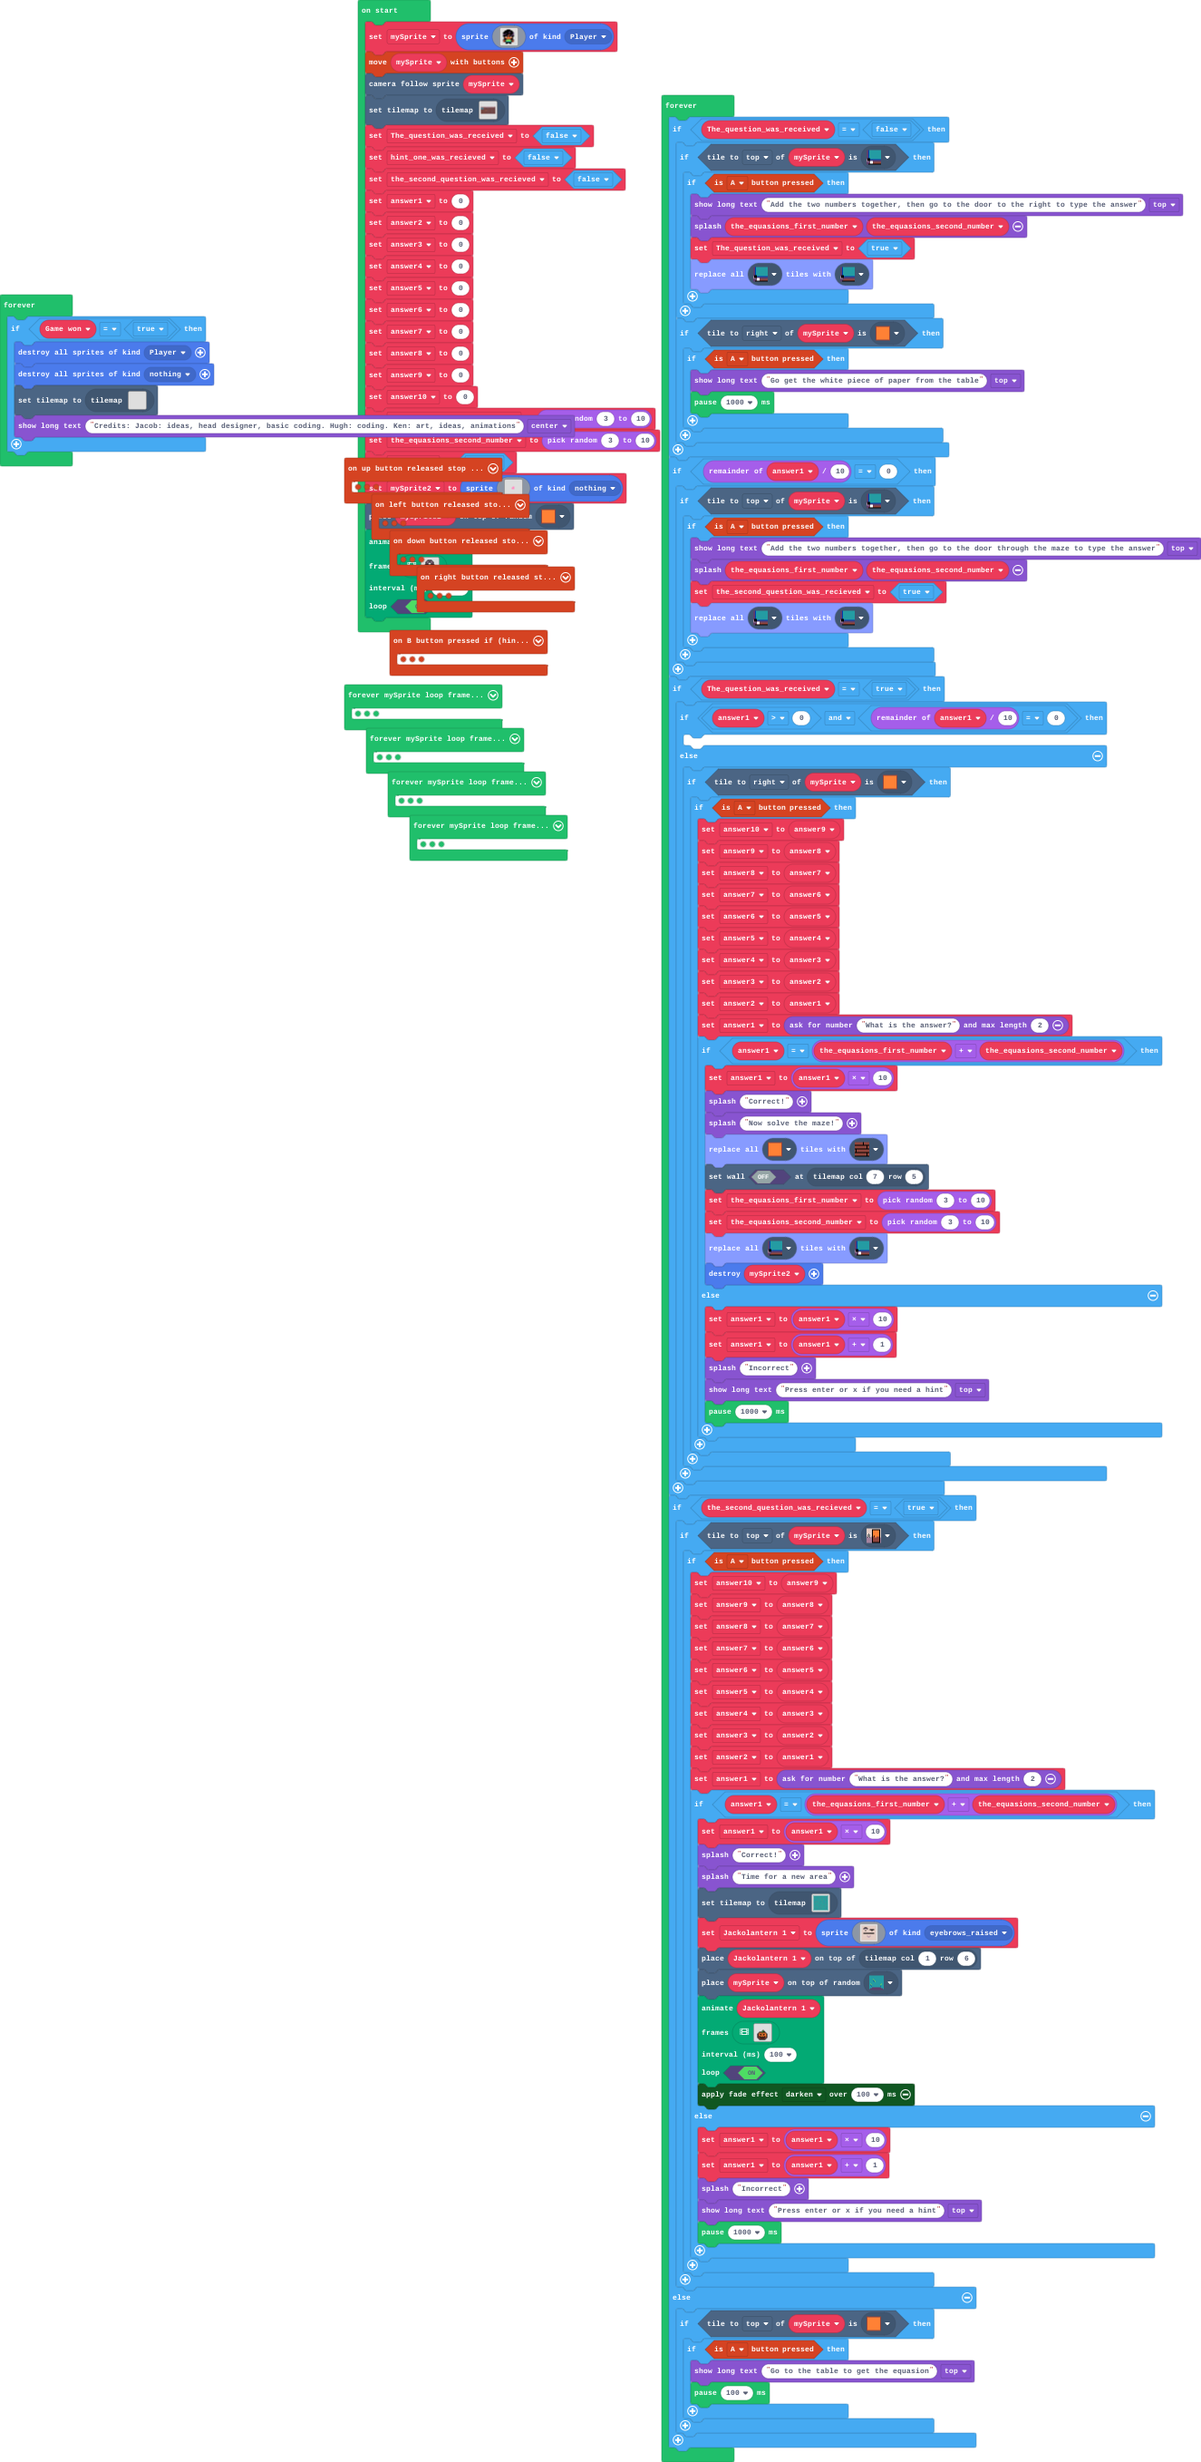
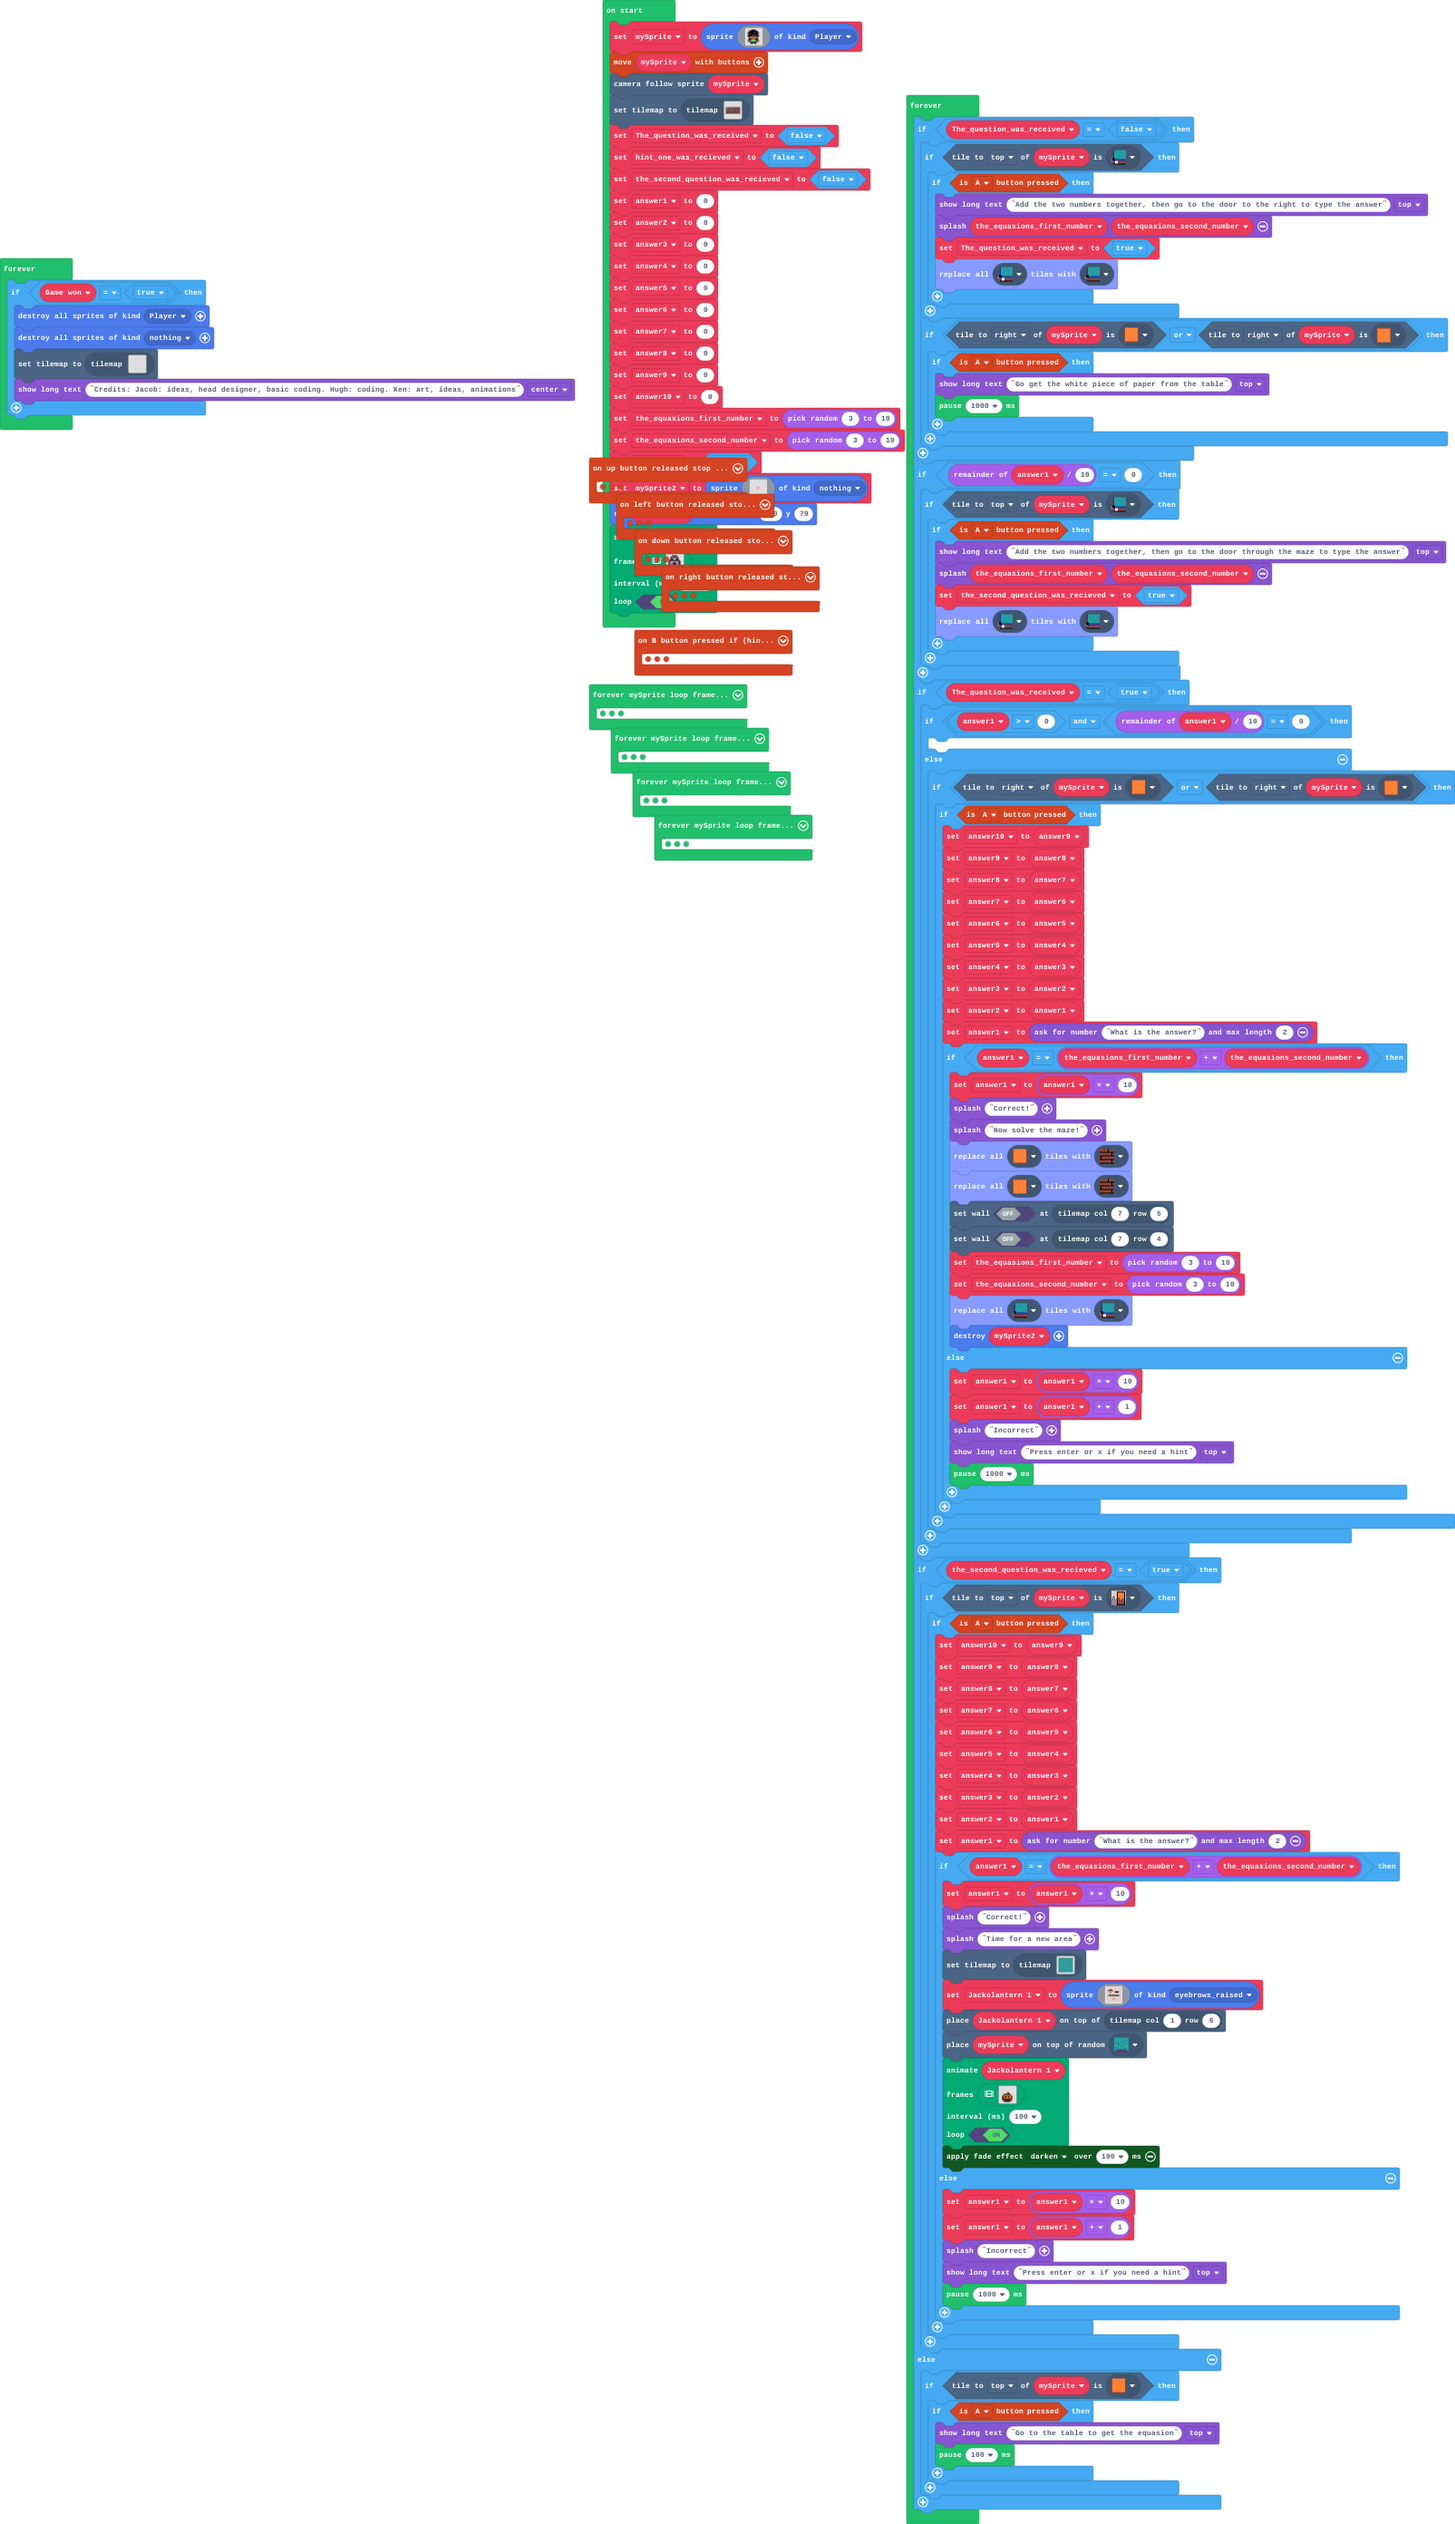
Update main.blocks, main.ts, tilemap.g.jres, tilemap.g.ts

Changed region(s): [[0.0, 0.0, 1.0, 1.0]]

diff --git a/tilemap.g.ts b/tilemap.g.ts
@@ -23,8 +23,6 @@ namespace myTiles {
     //% fixedInstance jres blockIdentity=images._tile
     export const tile9 = image.ofBuffer(hex``);
     //% fixedInstance jres blockIdentity=images._tile
-    export const tile10 = image.ofBuffer(hex``);
-    //% fixedInstance jres blockIdentity=images._tile
     export const tile15 = image.ofBuffer(hex``);
     //% fixedInstance jres blockIdentity=images._tile
     export const tile2 = image.ofBuffer(hex``);
@@ -72,6 +70,10 @@ namespace myTiles {
     export const tile34 = image.ofBuffer(hex``);
     //% fixedInstance jres blockIdentity=images._tile
     export const tile35 = image.ofBuffer(hex``);
+    //% fixedInstance jres blockIdentity=images._tile
+    export const tile36 = image.ofBuffer(hex``);
+    //% fixedInstance jres blockIdentity=images._tile
+    export const tile10 = image.ofBuffer(hex``);
 
     helpers._registerFactory("tilemap", function(name: string) {
         switch(helpers.stringTrim(name)) {
@@ -113,19 +115,6 @@ namespace myTiles {
 . . . . . . . . . . . . . . . . 
 . . . . . . . . . . . . . . . . 
 `, [myTiles.transparency16], TileScale.Sixteen);
-            case "level1":
[1 lines of base64/hex data omitted]
-2 2 2 2 2 2 2 2 2 2 2 2 2 2 2 2 2 2 2 2 
-. . . . . . . 2 2 2 2 2 . . . . . . . . 
-2 2 2 2 . . . 2 . 2 . 2 . 2 2 . 2 2 2 2 
-2 2 2 2 . . . 2 . 2 . 2 . 2 . . 2 . . . 
-. . . . . . . 2 . . . 2 . . 2 . . 2 2 . 
-. . . . . . . 2 . 2 2 2 2 . 2 2 . 2 2 . 
-. . . . . . . 2 . 2 . . . . . 2 . . 2 . 
-. . . . . . . 2 . 2 . 2 . 2 2 2 2 . 2 . 
-. . . . . . . 2 . . . 2 . . . . 2 . 2 . 
-. . . . . . . 2 2 2 2 2 2 2 2 2 2 . . . 
-`, [myTiles.transparency16,myTiles.tile1,myTiles.tile2,myTiles.tile3,myTiles.tile4,myTiles.tile5,myTiles.tile6,myTiles.tile9,myTiles.tile10,myTiles.tile12,myTiles.tile13,myTiles.tile14,myTiles.tile15,myTiles.tile16,myTiles.tile17,myTiles.tile7,myTiles.tile8,myTiles.tile18,myTiles.tile19,myTiles.tile20,myTiles.tile21,myTiles.tile22,myTiles.tile23,myTiles.tile24,myTiles.tile25,myTiles.tile26,myTiles.tile27,myTiles.tile28,myTiles.tile29,myTiles.tile30,myTiles.tile31], TileScale.Sixteen);
             case "level5":
             case "level5":return tiles.createTilemap(hex`1000100000000000000000000000000000000000000000000000000000000000000000000000000000000000000000000000000000000000000000000000000000000000000000000000000000000000000000000000000000000000000000000000000000000000000000000000000000000000000000000000000000000000000000000000000000000000000000000000000000000000000000000000000000000000000000000000000000000000000000000000000000000000000000000000000000000000000000000000000000000000000000000000000000000000000000000000000000000000000000000000000000000000000000000000000000000000`, img`
 . . . . . . . . . . . . . . . . 
@@ -164,6 +153,19 @@ namespace myTiles {
 . . 2 . . . . . . . . . . 2 . . 
 . . . . . 2 . . . . . . . . . . 
 `, [myTiles.transparency16,sprites.castle.tileDarkGrass1,sprites.castle.tileDarkGrass3,myTiles.tile32,myTiles.tile33,myTiles.tile34,myTiles.tile35], TileScale.Sixteen);
+            case "level1":
[1 lines of base64/hex data omitted]
+2 2 2 2 2 2 2 2 2 2 2 2 2 2 2 2 2 2 2 2 
+. . . . . . . 2 2 2 2 2 . . . . . . . . 
+2 2 2 2 . . . 2 . 2 . 2 . 2 2 . 2 2 2 2 
+2 2 2 2 . . . 2 . 2 . 2 . 2 . . 2 . . . 
+. . . . . . . 2 . . . 2 . . 2 . . 2 2 . 
+. . . . . . . 2 . 2 2 2 2 . 2 2 . 2 2 . 
+. . . . . . . 2 . 2 . . . . . 2 . . 2 . 
+. . . . . . . 2 . 2 . 2 . 2 2 2 2 . 2 . 
+. . . . . . . 2 . . . 2 . . . . 2 . 2 . 
+. . . . . . . 2 2 2 2 2 2 2 2 2 2 . . . 
+`, [myTiles.transparency16,myTiles.tile1,myTiles.tile2,myTiles.tile3,myTiles.tile4,myTiles.tile5,myTiles.tile6,myTiles.tile9,myTiles.tile10,myTiles.tile12,myTiles.tile13,myTiles.tile14,myTiles.tile15,myTiles.tile16,myTiles.tile17,myTiles.tile7,myTiles.tile8,myTiles.tile18,myTiles.tile19,myTiles.tile20,myTiles.tile21,myTiles.tile22,myTiles.tile23,myTiles.tile24,myTiles.tile25,myTiles.tile26,myTiles.tile27,myTiles.tile28,myTiles.tile29,myTiles.tile31,myTiles.tile36], TileScale.Sixteen);
         }
         return null;
     })
@@ -191,8 +193,6 @@ namespace myTiles {
             case "tile8":return tile8;
             case "myTile7":
             case "tile9":return tile9;
-            case "myTile8":
-            case "tile10":return tile10;
             case "myTile13":
             case "tile15":return tile15;
             case "myTile0":
@@ -237,6 +237,10 @@ namespace myTiles {
             case "tile33":return tile33;
             case "tile34":return tile34;
             case "tile35":return tile35;
+            case "myTile30":
+            case "tile36":return tile36;
+            case "myTile8":
+            case "tile10":return tile10;
         }
         return null;
     })

diff --git a/main.ts b/main.ts
@@ -162,7 +162,7 @@ let mySprite2 = sprites.create(img`
     . . . . . . . . . . . . . . . . 
     . . . . . . . . . . . . . . . . 
     `, SpriteKind.nothing)
-tiles.placeOnRandomTile(mySprite2, assets.tile`myTile8`)
+mySprite2.setPosition(120, 79)
 animation.runImageAnimation(
 mySprite2,
 [img`
@@ -213,7 +213,7 @@ forever(function () {
                 tileUtil.replaceAllTiles(assets.tile`myTile2`, assets.tile`myTile9`)
             }
         }
-        if (mySprite.tileKindAt(TileDirection.Right, assets.tile`myTile8`)) {
+        if (mySprite.tileKindAt(TileDirection.Right, assets.tile`myTile8`) || mySprite.tileKindAt(TileDirection.Right, assets.tile`myTile30`)) {
             if (controller.A.isPressed()) {
                 game.showLongText("Go get the white piece of paper from the table", DialogLayout.Top)
                 pause(1000)
@@ -234,7 +234,7 @@ forever(function () {
         if (answer1 > 0 && answer1 % 10 == 0) {
         	
         } else {
-            if (mySprite.tileKindAt(TileDirection.Right, assets.tile`myTile8`)) {
+            if (mySprite.tileKindAt(TileDirection.Right, assets.tile`myTile8`) || mySprite.tileKindAt(TileDirection.Right, assets.tile`myTile30`)) {
                 if (controller.A.isPressed()) {
                     answer10 = answer9
                     answer9 = answer8
@@ -251,7 +251,9 @@ forever(function () {
                         game.splash("Correct!")
                         game.splash("Now solve the maze!")
                         tileUtil.replaceAllTiles(assets.tile`myTile8`, assets.tile`myTile`)
+                        tileUtil.replaceAllTiles(assets.tile`myTile30`, assets.tile`myTile`)
                         tiles.setWallAt(tiles.getTileLocation(7, 5), false)
+                        tiles.setWallAt(tiles.getTileLocation(7, 4), false)
                         the_equasions_first_number = randint(3, 10)
                         the_equasions_second_number = randint(3, 10)
                         tileUtil.replaceAllTiles(assets.tile`myTile9`, assets.tile`myTile2`)
